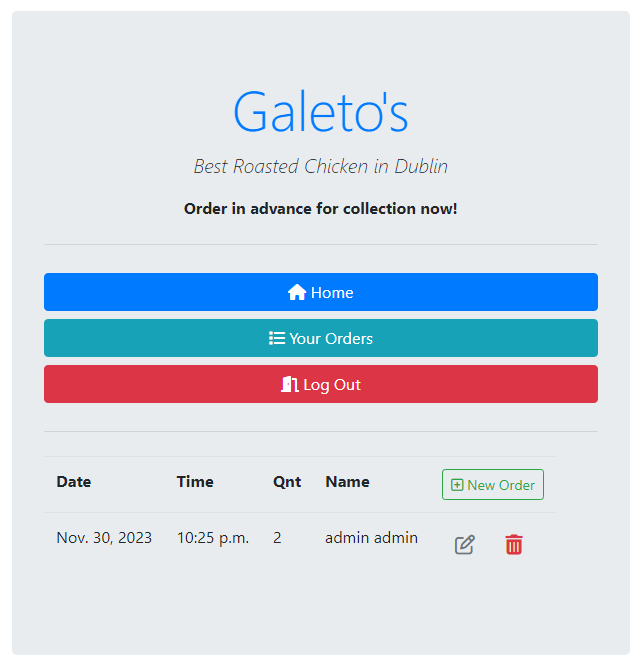
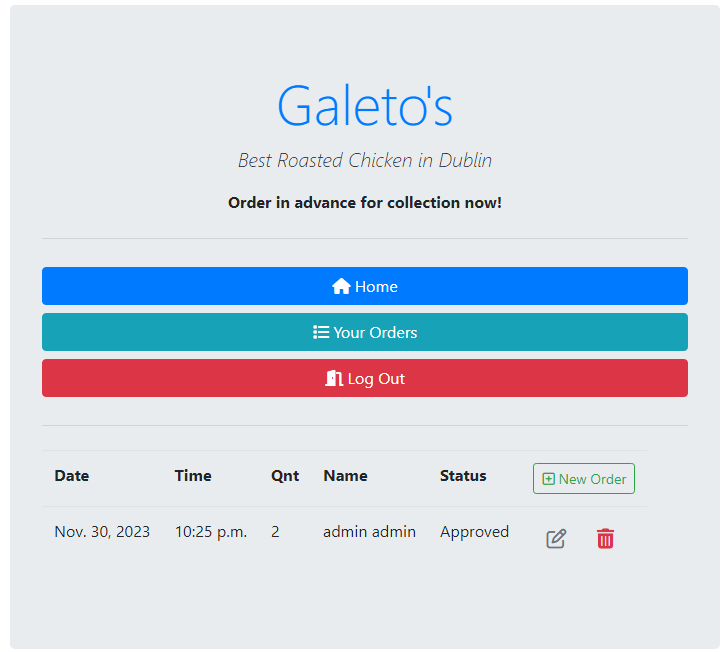
Add admin pictures and testing description to readme file

diff --git a/README.md b/README.md
@@ -14,7 +14,7 @@ Galeto's a Django/Python developed order app that was desinged for a friend of m
   - [User Experience (UX)](#user-experience-ux)
     - [User Stories](#user-stories)
   - [Features](#features)
-    - [Landing Play Page](#landing-play-page)
+    - [Landing Page](#landing-page)
     - [Contact Us](#contact-us)
     - [About Us](#about-us)
     - [Log In](#log-in)
@@ -26,6 +26,11 @@ Galeto's a Django/Python developed order app that was desinged for a friend of m
     - [Quantity Selection](#quantity-selection)
     - [Orders list](#orders-list)
     - [Edit Order](#edit-order)
+    - [Django Admin Panel](#django-admin-panel)
+    - [Approve Orders](#approve-orders)
+    - [Order Details](#order-details)
+    - [Admin Filters](#admin-filters)
+    - [Messages](#messages)
     - [Future Features](#future-features)
   - [Testing](#testing)
     - [Bugs and Issues](#bugs-and-issues)
@@ -70,7 +75,7 @@ ___
 
 ## Features
 
-  ### Landing Play Page
+  ### Landing Page
 Landing page was design to look like a simple booking app "menu-based" where the user can easily find and reach what their need with no distractions or missleading information. Ofering 3 simple options as: new order, contact us or about us.
 
   ![Alt text](static/media/images/landing.png "Landing Page") 
@@ -141,7 +146,7 @@ Quantity selection could be typed in or selected by the picker
 [Back to top](<#contents>)
 
   ### Orders list
-Once the order is finished user will be redirected to orders list where the user could easily place another order, edit or delete the existing ones. It was designed toe be simple and intuitive.
+Once the order is finished user will be redirected to orders list where the user could easily place another order, edit or delete the existing ones. It was designed toeb be simple and  intuitive.
 
   ![Alt text](static/media/images/orders_list.png "Order List")
 
@@ -156,6 +161,46 @@ If the user choose to edit and existing order the app will be redirect the the o
 
 [Back to top](<#contents>)
 
+  ### Django Admin Panel
+The built in Django Admin panel was setted up to help the admin to manage the orders as well as reading the messages from costumers
+
+  ![Alt text](static/media/images/admin_neworder.png "Django Admin Panel")
+
+[Back to top](<#contents>)
+
+  ### Approve Orders
+All new orders are set to be Pendind an  get easily be approved by the admin panel
+
+
+  ![Alt text](static/media/images/approve_orders.png "Approve Orders")
+
+[Back to top](<#contents>)
+
+  ### Order Details
+Admin can have access to the order details through the admin panel.
+
+  ![Alt text](static/media/images/order_details.png "Order Details")
+
+[Back to top](<#contents>)
+
+  ### Admin Filters
+Admin have some filters feature to help locate orders such as pending orders, or approved ones and so on.
+
+  ![Alt text](static/media/images/filters.png "Admin Filters")
+
+[Back to top](<#contents>)
+
+  ### Messages
+Messages sent through the contact us page can be easily found on the admin panel as well as the message details.
+
+  ![Alt text](static/media/images/messages.png "Messages")
+
+  ![Alt text](static/media/images/message_details.png "Messages Detail")
+
+[Back to top](<#contents>)
+
+
+
   ### Future Features
 For future features I will definetly implement and disable past dates and out of work hours that I could not implement due the deadline. Also I would do some more UX design when delete or editing and a modal popup that gets a validation from user of their choice. Also a banner when order is created, updated or deleted to give user more assurance of their action. I would also implement and API system that could send a email confirmation to the user and the administrator thar a new order was created 
 
@@ -164,13 +209,32 @@ For future features I will definetly implement and disable past dates and out of
 
 ## Testing
 
+| Test                | Action                   | Success Criteria  |
+  | -------------       |-------------             | -----|
+  | Landingpage loads      | Navigate to website URL  | Page loads < 5s, no errors |
+  | Links            | Click on each Navigation link  | Correct section is redirected action performed |
+  | Athentications System  | User should be able Sign Up Log In and Log Out | All functions working fine as expected |
+  | CRUD Functionality  | User should be able to create edit and delete orders | All functions working fine as expected |
+  | Responsiveness | Resize the viewport window from 320px upwards with Chrome Dev Tools. Use Responsive Design Checker to test various mobile, tablet, and large screen sizes | Page layout remains intact and adapts to screen size|
+  | Different web browsers | Runned the app in Google Chrome, Mozilla Firefox and Internet Explorer | App works responsive and layout remains intact no errors or bug detected |
+  | Different screen devices | Runned the app using a Samsung Galaxy s20 and Iphone 13 | App works responsive and layout remains intact no errors or bug detected |
 
-![Alt text]( "PEP8CI Report")
+[Back to top](<#contents>)
+
+HTML validator
+![Alt text](static/media/images/html_validator.png "HTML Validator")
+
+PEP8 validator
+![Alt text](static/media/images/models_validator.png "PEP8 Validator")
+
+Over all Google Chrome LightHouse Report
+![Alt text](static/media/images/lighthouse.png "LightHouse Report")
 
 [Back to top](<#contents>)
 
  ### Bugs and Issues
 
+Debugging and troubleshooting were done constantly throughout development.
 
 [Back to top](<#contents>)
 
@@ -182,7 +246,7 @@ I used the following technologies, platforms and support in building my project:
 - The [**Code Institute**](https://codeinstitute.net/) modules/lessons aided my learning and many of the concepts learned were applied in this project.
 - [**GitHub**](https://github.com/Cesargarciajr/bloom-of-life) was used for the project repository.
 - [**Code Anywhere**](https://app.codeanywhere.com/) - for IDE and editor of the code.
-- [**Django**](https://www.djangoproject.com/) - framework to develop the app and athentications system "Allauth"
+- [**Django**](https://www.djangoproject.com/) - framework to develop the app and a few other libraries such as athentications system "Allauth" all specified in the requirements.txt file
 - [**Bootstrap**](https://getbootstrap.com/) - for design and choices.
 - [**Heroku**](https://www.heroku.com/platform) - was used for application deployment.
 - [**Elephant SQL**](https://www.elephantsql.com/) - for database.
@@ -276,7 +340,7 @@ Open your terminal (or Git Bash on Windows) and navigate to the directory where 
 [Back to top](<#contents>)
 
 ## Acknowledgments
-
+This project taught me a lot and helped me put in practice what I have learn throughout the Course specially getting to know more about Django frameworks and libraries. I was happy enough with the results and to be able to develop a real world application for a friend that will use it as a tool to better manage his business. I Thank the opportunity and help I got from all Code Institute Tutors, but special thanks to [**Sarah Collins**](https://github.com/SJECollins) that helped me a lot troubleshooting and explaining to me my questions.
 
 by [**Cesar Garcia**](https://github.com/Cesargarciajr)
 
